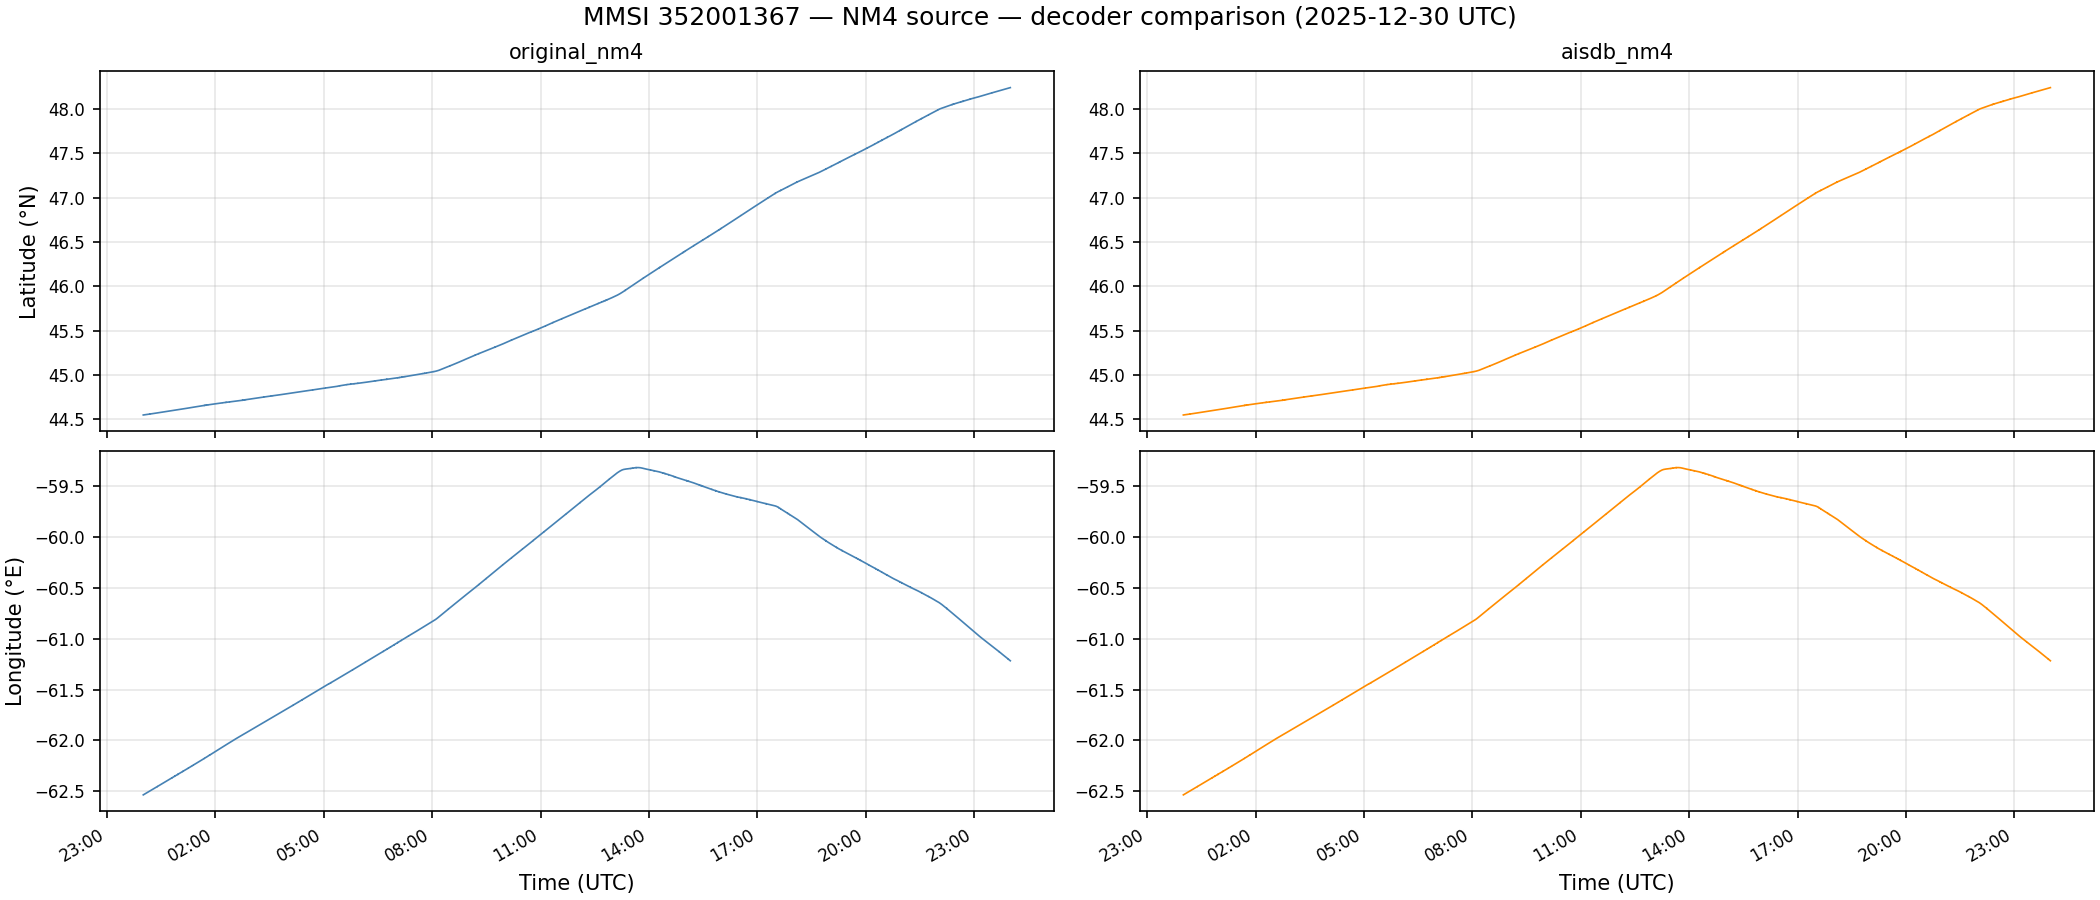
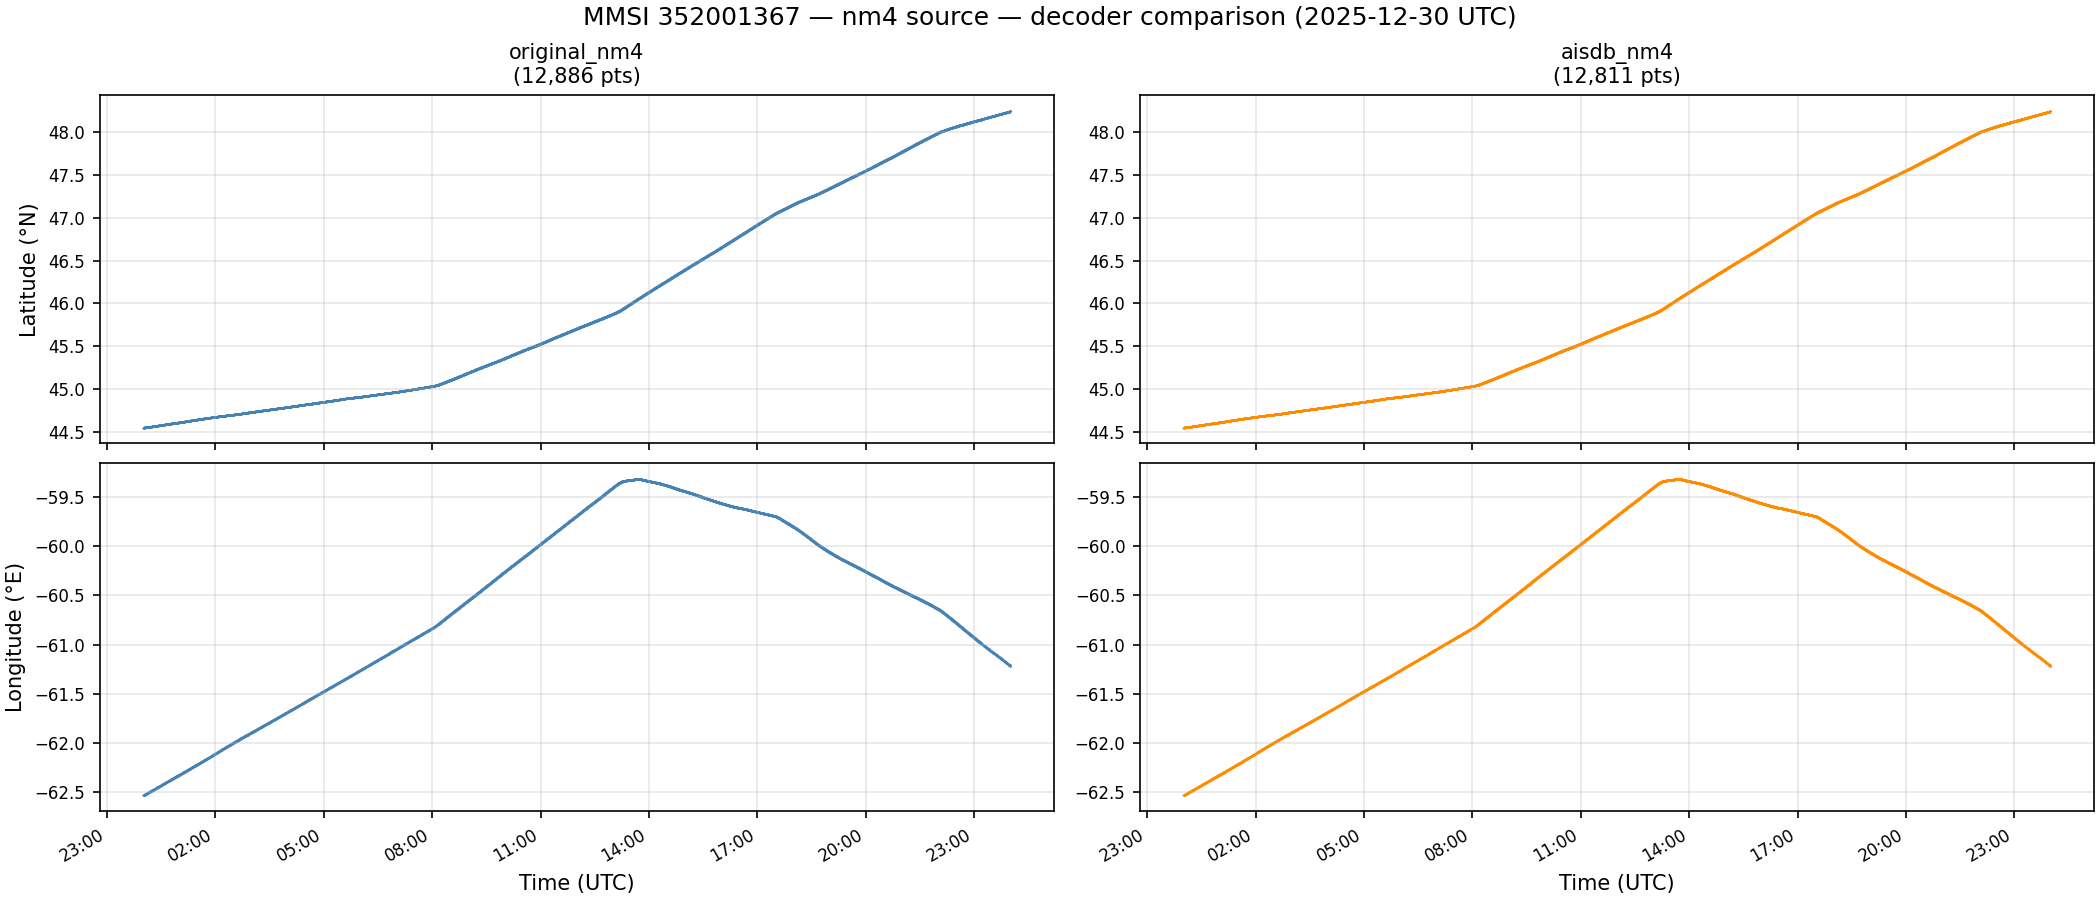
fix lat/long graphs

diff --git a/analysis/decoder_comparison_zoomed.py b/analysis/decoder_comparison_zoomed.py
@@ -1,13 +1,15 @@
 #!/usr/bin/env python3
 """
-decoder_comparison_plot.py — Lat / lon vs time for a single vessel, comparing
-                              the two NM4 decoders against the reference CSV.
+decoder_comparison_zoomed.py — Same as decoder_comparison_plot.py but zoomed
+                                into a 3-hour window so individual points are
+                                visible.
 
-MMSI:    352001367  (highest obs count + spread among common Scotian Shelf vessels)
-Sources: original_nm4, aisdb_nm4, reference_csv
+Produces:
+  data/plots/decoder_comparison_nm4_zoomed.png
+  data/plots/decoder_comparison_streaming_zoomed.png
 
 Usage:
-    .venv/bin/python -u analysis/decoder_comparison_plot.py
+    .venv/bin/python -u analysis/decoder_comparison_zoomed.py
 """
 
 import glob
@@ -19,20 +21,14 @@ import matplotlib.dates as mdates
 import matplotlib.pyplot as plt
 import pandas as pd
 
-T_START = 1767052800  # 2025-12-30 00:00 UTC
-T_END   = 1767139200  # 2025-12-30 24:00 UTC
+# 30-minute window: 06:00 – 06:30 UTC on 2025-12-30
+T_START = 1767052800 + 6 * 3600          # 06:00
+T_END   = 1767052800 + 6 * 3600 + 1800   # 06:30
 MMSI    = 352001367
 
 REPO_ROOT   = Path(__file__).parent.parent
 DATA_DIR    = REPO_ROOT / "data"
 PLOTS_DIR   = DATA_DIR / "plots"
-REF_CSV_DIR = Path("/home/shared/ccg_ais_claudio/ais_comp/csv")
-
-SOURCES = {
-    "original_nm4": {"color": "steelblue",   "lw": 1.2, "ls": "-",  "zorder": 2},
-    "aisdb_nm4":    {"color": "darkorange",  "lw": 1.2, "ls": "-",  "zorder": 2},
-    "reference":    {"color": "black",       "lw": 0.8, "ls": "--", "zorder": 1},
-}
 
 
 def load_nc(pattern: str) -> pd.DataFrame:
@@ -43,7 +39,7 @@ def load_nc(pattern: str) -> pd.DataFrame:
     chunks = []
     for path in files:
         ds = netCDF4.Dataset(path)
-        mmsi = np.array(ds.variables["mmsi"][:],    dtype=np.int64)
+        mmsi = np.array(ds.variables["mmsi"][:],     dtype=np.int64)
         ts   = np.array(ds.variables["date_num"][:], dtype=np.int64)
         lat  = np.array(ds.variables["latitude"][:], dtype=float)
         lon  = np.array(ds.variables["longitude"][:], dtype=float)
@@ -72,44 +68,22 @@ def load_aisdb(db_path: str) -> pd.DataFrame:
     return df.sort_values("ts")
 
 
-def load_reference(csv_dir: str) -> pd.DataFrame:
-    zips = sorted(glob.glob(f"{csv_dir}/*.csv.zip"))
-    chunks = []
-    for zip_path in zips:
-        with zipfile.ZipFile(zip_path) as zf:
-            for name in zf.namelist():
-                with zf.open(name) as f:
-                    df = pd.read_csv(f, usecols=["mmsi", "latitude", "longitude", "reception_timestamp"])
-                df = df[df["mmsi"] == MMSI].copy()
-                if df.empty:
-                    continue
-                df["ts"] = (
-                    (pd.to_datetime(df["reception_timestamp"]) - pd.Timestamp("1970-01-01"))
-                    // pd.Timedelta("1s")
-                )
-                df = df[(df["ts"] >= T_START) & (df["ts"] < T_END)]
-                chunks.append(df[["ts", "latitude", "longitude"]].rename(
-                    columns={"latitude": "lat", "longitude": "lon"}
-                ))
-    return pd.concat(chunks, ignore_index=True).sort_values("ts") if chunks else pd.DataFrame(columns=["ts", "lat", "lon"])
-
-
 def make_plot(decoders: list, source: str) -> None:
     def to_dt(ts): return pd.to_datetime(ts, unit="s", utc=True)
 
     fig, axes = plt.subplots(2, 2, figsize=(14, 6), constrained_layout=True, sharex=True)
-    fig.suptitle(f"MMSI {MMSI} — {source} source — decoder comparison (2025-12-30 UTC)", fontsize=12)
+    fig.suptitle(f"MMSI {MMSI} — {source} — 06:00–06:30 UTC (2025-12-30)", fontsize=12)
 
     fmt = mdates.DateFormatter("%H:%M")
-    loc = mdates.HourLocator(interval=3)
+    loc = mdates.MinuteLocator(interval=5)
     colors = ["steelblue", "darkorange"]
 
     for col, (label, df) in enumerate(decoders):
         ax_lat = axes[0, col]
         ax_lon = axes[1, col]
         t = to_dt(df["ts"])
-        ax_lat.scatter(t, df["lat"], s=1, color=colors[col], alpha=0.5, linewidths=0)
-        ax_lon.scatter(t, df["lon"], s=1, color=colors[col], alpha=0.5, linewidths=0)
+        ax_lat.scatter(t, df["lat"], s=4, color=colors[col], alpha=0.6, linewidths=0)
+        ax_lon.scatter(t, df["lon"], s=4, color=colors[col], alpha=0.6, linewidths=0)
         ax_lat.set_title(f"{label}\n({len(df):,} pts)", fontsize=10)
         ax_lon.xaxis.set_major_formatter(fmt)
         ax_lon.xaxis.set_major_locator(loc)
@@ -124,7 +98,7 @@ def make_plot(decoders: list, source: str) -> None:
     axes[1, 1].set_xlabel("Time (UTC)", fontsize=10)
 
     PLOTS_DIR.mkdir(parents=True, exist_ok=True)
-    out = PLOTS_DIR / f"decoder_comparison_{source}.png"
+    out = PLOTS_DIR / f"decoder_comparison_{source}_zoomed.png"
     plt.savefig(out, dpi=150)
     plt.close()
     print(f"Saved: {out}")

diff --git a/markdown/JUNE_8.md b/markdown/JUNE_8.md
@@ -1,9 +1,21 @@
 # Monday, June 8 2026
 
+5 MMSI present in all sources, selected for actual movement across the Scotian Shelf. MMSI 352001367 used for lat/lon plots (most position reports + largest spatial spread).
 
-Picked 5 unique MMSI, plot their tracks
 ![Vessel track maps](../data/plots/vessel_tracks_map.png)
 
+## Full latitude/longitude plots as functions of time
 
-Plot the latitude and longitude as functions of time for both decoders on the NM4 dataset
+### NM4
 ![Lat and long as functions of time](../data/plots/decoder_comparison_nm4.png)
+
+### Streaming
+![Lat and long as functions of time](../data/plots/decoder_comparison_streaming.png)
+
+## 5 minute interval (06:00–06:30 UTC)
+
+### NM4
+![Lat and long as functions of time](../data/plots/decoder_comparison_nm4_zoomed.png)
+
+### Streaming
+![Lat and long as functions of time](../data/plots/decoder_comparison_streaming_zoomed.png)
